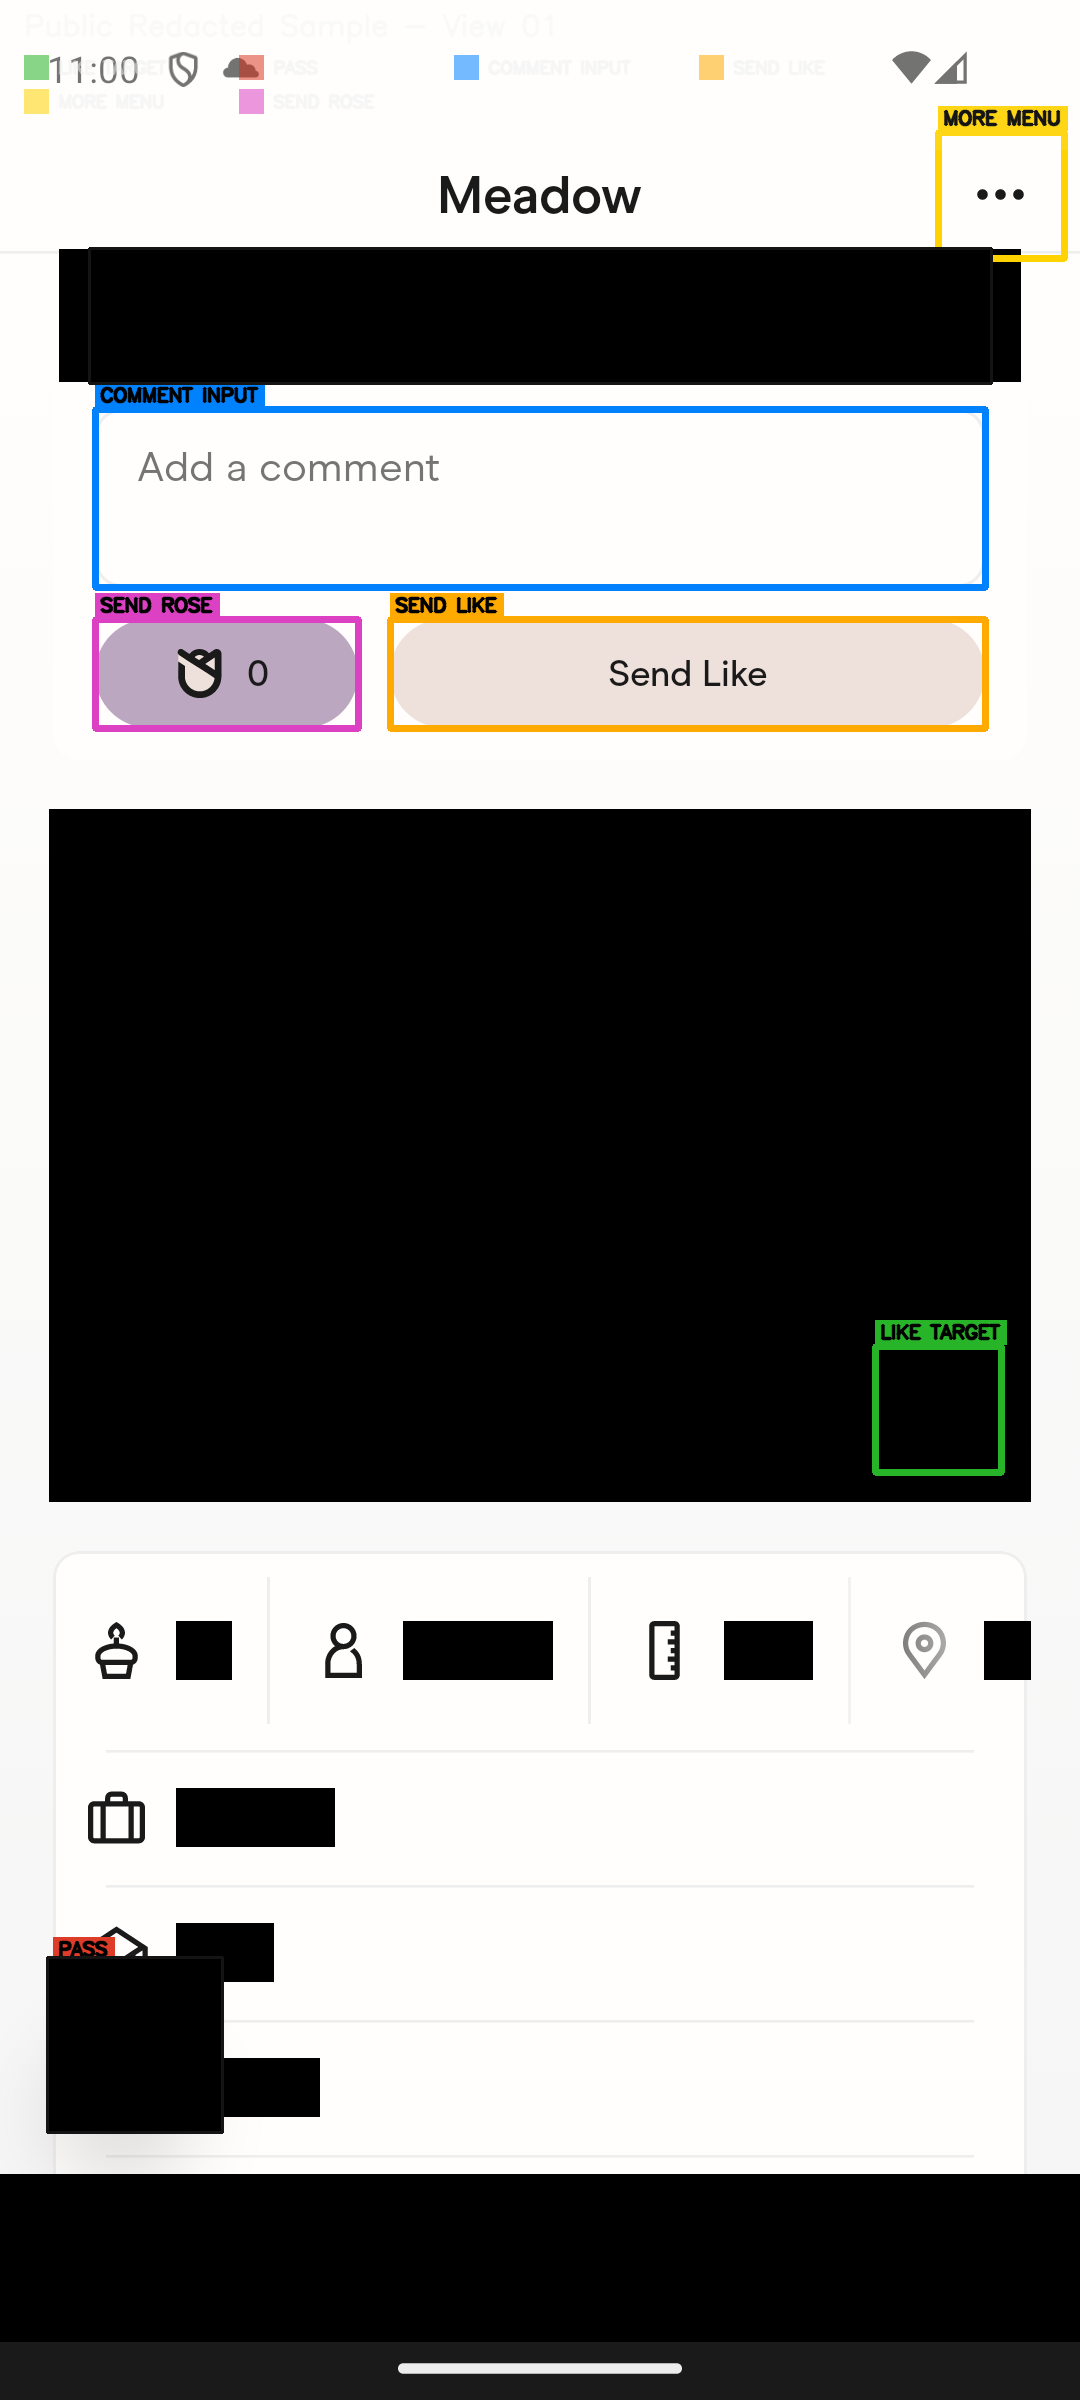
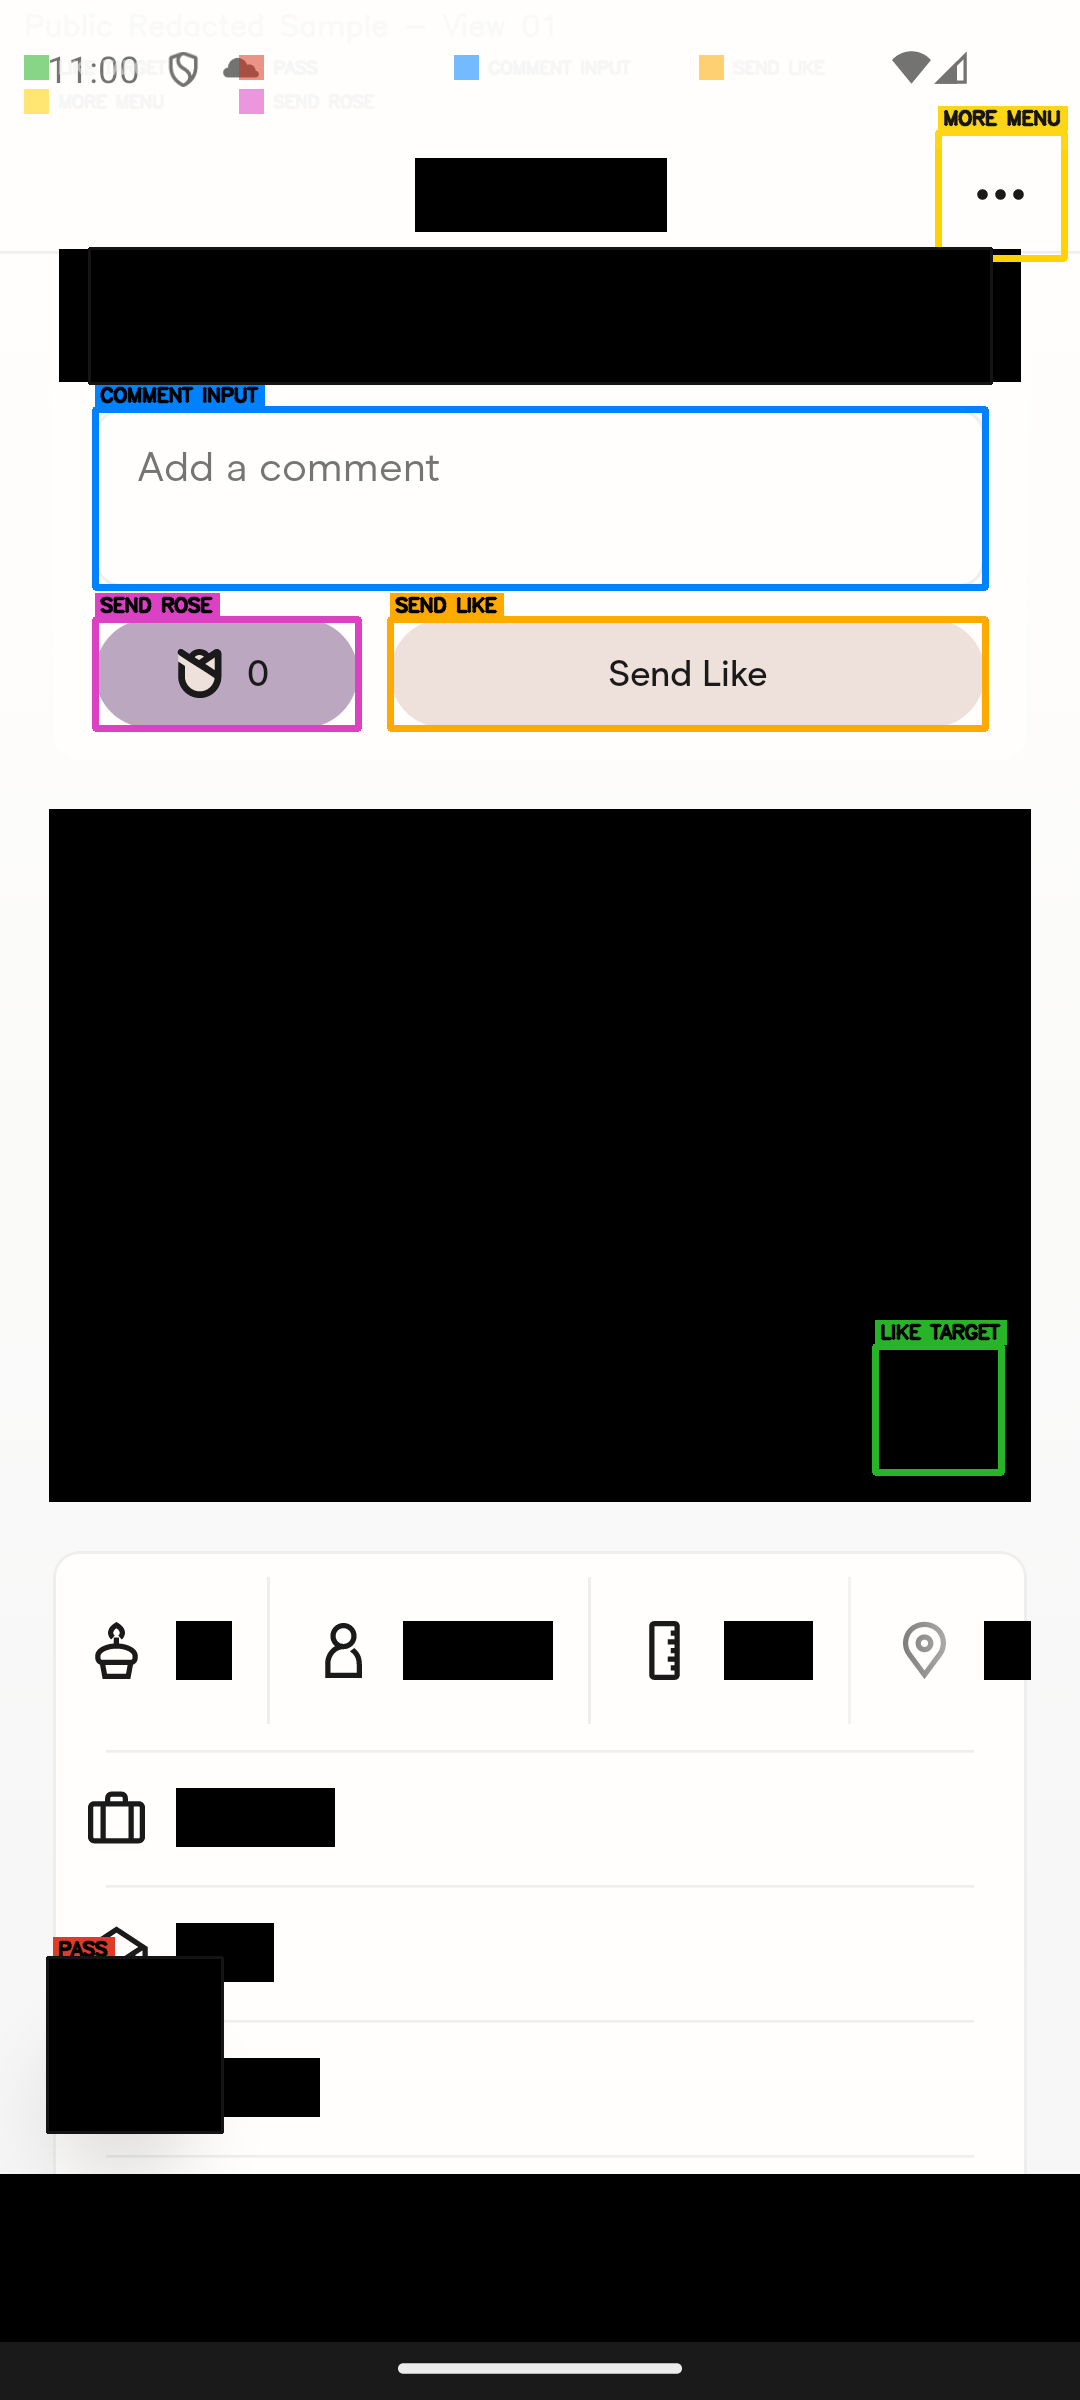
docs: improve top-level README flow and hide remaining name text

Changed region(s): [[0.3667, 0.0625, 0.6417, 0.0938]]

diff --git a/README.md b/README.md
@@ -10,46 +10,21 @@ This repository is now a **single methodology codebase**:
 
 Legacy Playwright/browser automation and legacy context/persona microservices were removed.
 
-## Public Walkthrough
+## System Architecture
 
-This section shows the idea in plain terms.
-
-Each sample keeps the app layout visible so you can understand what the agent sees, while personal details are hidden. The colored boxes show the key touch targets the agent can use for its next step.
-
-What this demonstrates:
-
-1. The system reads the current screen.
-2. It identifies clear next choices (like, pass, comment, send, menu).
-3. It picks one choice and executes it on the same screen.
-
-<p>
-  <img src="docs/public_examples/hinge_public_sample_view_01.png" alt="Public sample A" width="320">
-</p>
-<p><em>Sample A: message area and core controls remain visible, while personal details are hidden.</em></p>
-
-<p>
-  <img src="docs/public_examples/hinge_public_sample_view_04.png" alt="Public sample B" width="320">
-</p>
-<p><em>Sample B: multiple selectable targets on one profile view.</em></p>
-
-<p>
-  <img src="docs/public_examples/hinge_public_sample_view_07.png" alt="Public sample C" width="320">
-</p>
-<p><em>Sample C: repeated profile actions across deeper scroll positions.</em></p>
-
-## Architecture
+At runtime, the agent stays on one live mobile session, observes the current screen, chooses the next action, executes it, and stores evidence for review.
 
 ```mermaid
 flowchart LR
   subgraph Host["Local Machine"]
-    CLI["CLI\npython -m automation_service.cli"]
-    MCP["Hinge MCP Server\nscripts/start-hinge-agent-mcp.sh"]
-    Agent["Live Agent\nlive_hinge_agent.py"]
-    Capture["Full-Fidelity Capture\nfull_fidelity_hinge.py"]
-    Offline["Offline Extraction\noffline_artifacts.py"]
+    CLI["CLI"]
+    MCP["MCP Control Server"]
+    Agent["Live Agent"]
+    Capture["Capture Pipeline"]
+    Offline["Offline Extraction"]
     Artifacts[("artifacts/")]
-    Appium["Appium Server\n:4723"]
-    Device["Android Emulator/Device\nHinge/Tinder"]
+    Appium["Appium Server"]
+    Device["Android Emulator/Device"]
 
     CLI --> Agent
     MCP --> Agent
@@ -66,17 +41,43 @@ flowchart LR
   Agent -. "optional LLM decision" .-> LLM["OpenAI API"]
 ```
 
-### Full-Fidelity Packaging (Owned Contract)
+## Detailed Example
+
+The examples below show how the system marks useful action points while keeping personal details hidden.
+
+<p>
+  <img src="docs/public_examples/hinge_public_sample_view_01.png" alt="Public sample A" width="300">
+</p>
+<p><em>Sample A: message area and core controls stay visible so the decision context is clear.</em></p>
+
+<p>
+  <img src="docs/public_examples/hinge_public_sample_view_04.png" alt="Public sample B" width="300">
+</p>
+<p><em>Sample B: multiple possible actions are identified on a single profile view.</em></p>
+
+<p>
+  <img src="docs/public_examples/hinge_public_sample_view_07.png" alt="Public sample C" width="300">
+</p>
+<p><em>Sample C: the same action pattern remains consistent as the profile scrolls.</em></p>
+
+## End-to-End Loop
+
+1. Read the current screen.
+2. Identify the available next actions.
+3. Choose one action.
+4. Execute it and capture evidence.
+
+### Evidence Packaging
 
 ```mermaid
 flowchart LR
-  Capture["Full-Fidelity Capture\n(full_fidelity_hinge.py)"] --> SessionDir[("session_dir/\nframes.jsonl\nprofiles.jsonl\nmessages.jsonl\nnodes.jsonl\nsummary.json")]
-  SessionDir --> Packager["Package Builder\n(scripts/build-hinge-session-package.py)"]
+  Capture["Full-Fidelity Capture"] --> SessionDir[("session_dir/\nframes.jsonl\nprofiles.jsonl\nmessages.jsonl\nnodes.jsonl\nsummary.json")]
+  SessionDir --> Packager["Package Builder"]
   Packager --> Contract[("package_contract_*/\nsession_package.json\nprofiles_index.jsonl\nthreads_index.jsonl\nmanifest.json\nassets/")]
-  Contract --> Downstream["Downstream Pipelines\n(LLM scoring, analytics, replay)"]
+  Contract --> Downstream["Downstream Pipelines"]
 ```
 
-## Decision Loop
+## Decision Loop (Detailed)
 
 ```mermaid
 sequenceDiagram
